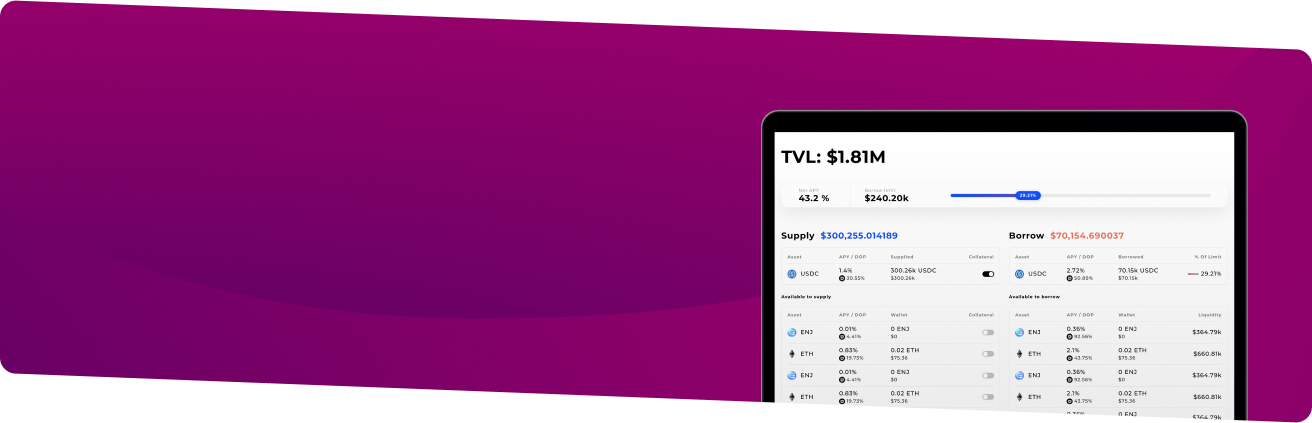
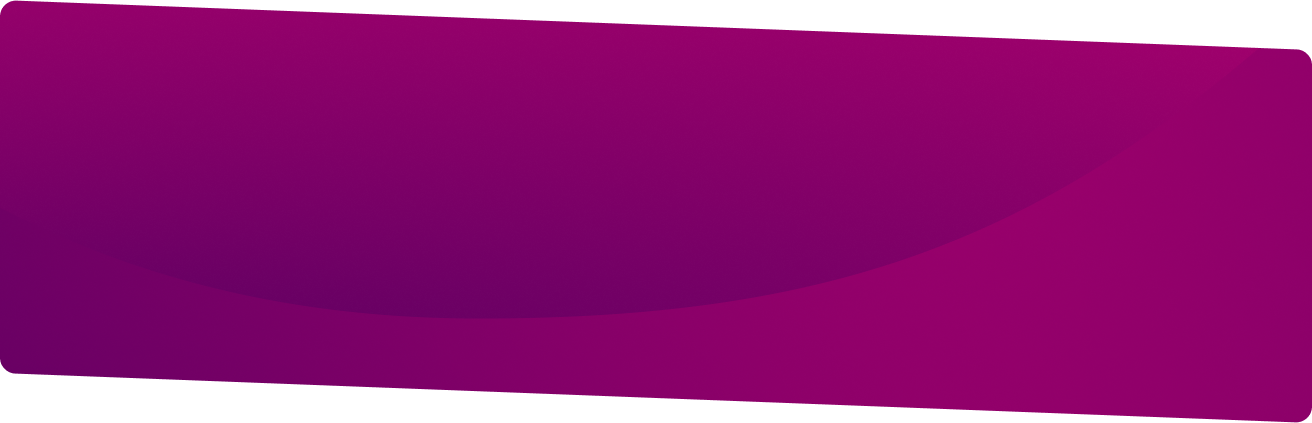
style

Changed region(s): [[0.5625, 0.2459, 0.9688, 1.0]]

diff --git a/pages/index.tsx b/pages/index.tsx
@@ -271,12 +271,14 @@ const Section = styled.div`
     background-repeat: no-repeat;
     background-size: 100% 100%;
     display: flex;
-    flex-direction: column;
     padding: 64px 64px 0px;
     margin-top: 152px;
 
+    @media screen and (max-width: 1024px) {
+      height: auto;
+      flex-direction: column;
+    }
     @media screen and (max-width: 768px) {
-      height: 264px;
       padding: 48px 48px 0px;
       margin-top: 60px;
     }
@@ -287,7 +289,7 @@ const Section = styled.div`
 
     .title {
       font-weight: bold;
-      font-size: 80px;
+      font-size: 60px;
       color: var(--color-white);
       letter-spacing: -0.04em;
       margin: 0;
@@ -316,6 +318,14 @@ const Section = styled.div`
       letter-spacing: -0.04em;
       color: var(--color-black);
       z-index: 1;
+    }
+
+    img {
+      height: 85%;
+      @media screen and (max-width: 1024px) {
+        margin-left: -40px;
+        margin-top: 24px;
+      }
     }
   }
 
@@ -457,11 +467,14 @@ export default function Home() {
             ))}
           </div>
         </Section>
-        <Section className="section-10 limited">
-          <h1 className="title">Put your assets to work</h1>
-          <Link href="/loans">
-            <Button>Launch app</Button>
-          </Link>
+        <Section className="flex justify-between section-10 limited">
+          <div>
+            <h1 className="title">Put your assets to work</h1>
+            <Link href="/loans">
+              <Button>Launch app</Button>
+            </Link>
+          </div>
+          <img src="/static/images/bg/company.png" />
         </Section>
         <Section className="section-7 limited">
           <h2 className="title">Our team</h2>
